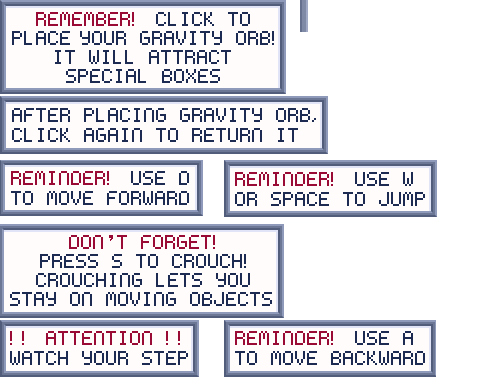
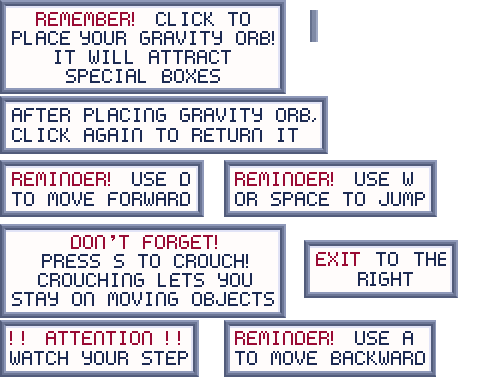
Fixed some tiles

Changed region(s): [[0.0, 0.4062, 0.5938, 0.8438], [0.625, 0.625, 0.9688, 0.7812], [0.625, 0.0, 0.6875, 0.125]]

diff --git a/js/states/level2.js b/js/states/level2.js
@@ -206,7 +206,7 @@ Level2.prototype =
 		updateCamera(this.player, game, this.ball);	
 
 		//switch states when player presses Q
-		if(Q.justPressed() || (this.player.body.x > 283 * 32 && this.player.body.x < 285 * 32 && this.player.onGround))
+		if(this.player.body.x > 283 * 32 && this.player.body.x < 285 * 32 && this.player.onGround)
 		{
 			
 			game.camera.fade(200, "#000000") ;

diff --git a/js/states/tutorial.js b/js/states/tutorial.js
@@ -144,7 +144,7 @@ Tutorial.prototype =
 		var tutorialOver = game.physics.arcade.overlap(this.platforms, this.button);
 		
 		//switch states when player presses Q
-		if(Q.justPressed() || tutorialOver)
+		if(tutorialOver)
 		{
 			if(!this.over)
 			{
